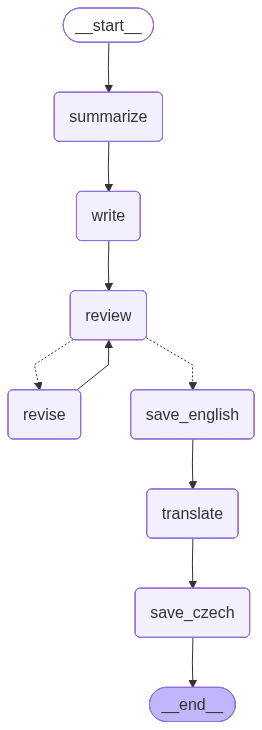
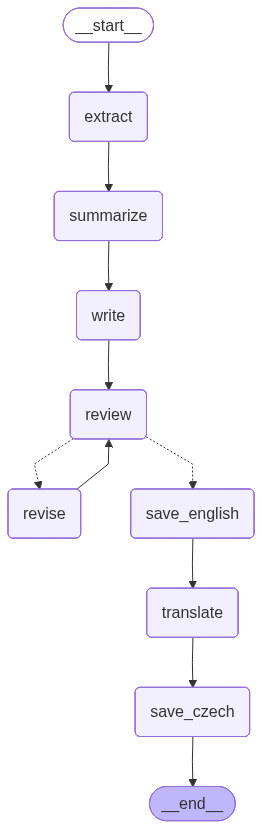
added original_text comparison

diff --git a/eve.py b/eve.py
@@ -3,12 +3,16 @@ from typing import TypedDict, Literal
 from langgraph.graph import StateGraph, START, END
 from parameters import MAX_REVISIONS, PAPER_PATH
 from dotenv import load_dotenv
+from utils import write_to_file
+
 
 load_dotenv()
+
 
 # define the graph state
 class ArticleState(TypedDict):
     paper_path: str
+    original_text: str
     summary: str
     current_article: str
     feedback: str
@@ -16,44 +20,74 @@ class ArticleState(TypedDict):
     approved: bool
     translated_article: str
     llm_calls: int
-    article_path_english: str
-    article_path_czech: str
+    article_english_path: str
+    article_czech_path: str
+
 
 # define graph nodes
+def extract_node(state:ArticleState):
+    from tools import extract_text
+    paper_text = extract_text(filepath=state["paper_path"])
+
+    print(f"EXTRACT SUCCESS")
+    write_to_file(
+        filename="extract_node_output.txt",
+        content=paper_text
+        )
+    
+    return {
+        "original_text": paper_text,
+    }
+
+
 def summarize_node(state: ArticleState):
     from tools import summarize_paper
-    summary = summarize_paper(filepath=state["paper_path"])
+    summary = summarize_paper(paper_text=state["original_text"])
 
-    print(f"SUMMARIZE SUCCES:\n{summary}\n\n")
+    print(f"SUMMARIZE SUCCES")
+    write_to_file(
+        filename="summarize_node_output.txt",
+        content=summary
+        )
+
     return {
         "summary": summary,
         "llm_calls": state["llm_calls"] + 1
         }
 
+
 def write_node(state: ArticleState):
     from tools import write_article
     article = write_article(paper_summary=state["summary"])
 
-    # extract the text
-    #article_text = state["current_article"]
+    print(f"WRITE SUCCESS")
+    write_to_file(
+        filename="write_node_output.txt",
+        content=article
+        )
 
-    print(f"WRITE SUCCESS:\n{article}\n\n")
     return {
         "current_article": article,
         "revision_count": 0,
         "llm_calls": state["llm_calls"] + 1
         }
 
+
 def review_node(state: ArticleState):
     from tools import review_article
-    response = review_article(article=state["current_article"])
+    response = review_article(article=state["current_article"], original_text=state["original_text"])
 
-    print(f"REVIEW SUCCESS, APPROVED: {response.approved}\n{response}\n\n")
+    print(f"REVIEW SUCCESS, REVISION: {state['revision_count']}, APPROVED: {response.approved}")
+    write_to_file(
+        filename=f"review_node_output_{state['revision_count']}.txt",
+        content="\n".join(response.feedback)
+        )
     return {
         "feedback": "\n".join(response.feedback),
         "approved": response.approved,
         "llm_calls": state["llm_calls"] + 1
     }
+
 
 def revise_node(state: ArticleState):
     from tools import revise_article
@@ -62,38 +96,55 @@ def revise_node(state: ArticleState):
         feedback=state["feedback"]
         )
     
-    #revised_text = 
-    
-    print(f"REVISION SUCCESS\n{revised}\n\n")
+    print(f"REVISION SUCCESS")
+    write_to_file(
+        filename=f"revise_node_output_{state['revision_count']}.txt",
+        content=revised
+        )
     return {
         "current_article": revised,
         "revision_count": state["revision_count"] + 1,
         "llm_calls": state["llm_calls"] + 1
     }
 
+
 def save_english_node(state: ArticleState):
     from tools import save_article_english
     result = save_article_english(article=state["current_article"])
 
-    print(f"SAVE_ENGLISH SUCCESS\n\n")
-    return {"article_path_english": result}
+    print(f"SAVE_ENGLISH SUCCESS")
+    write_to_file(
+        filename="save_english_node_output.txt",
+        content=result
+    )
+    return {"article_english_path": result}
+
 
 def translate_node(state: ArticleState):
     from tools import translate_article
     translated = translate_article(article=state["current_article"])
 
-    print(f"TRANSLATE SUCCESS\n{translated}\n\n")
+    print(f"TRANSLATE SUCCESS")
+    write_to_file(
+        filename="translate_node_output.txt",
+        content=translated
+    )
     return {
         "translated_article": translated,
         "llm_calls": state["llm_calls"] + 1
         }
 
+
 def save_czech_node(state: ArticleState):
     from tools import save_article_czech
     result = save_article_czech(article=state["translated_article"])
 
-    print(f"SAVE_CZECH SUCCESS\n\n")
-    return {"article_path_czech": result}
+    print(f"SAVE_CZECH SUCCESS")
+    write_to_file(
+        filename="save_czech_node_output.txt",
+        content=result
+    )
+    return {"article_czech_path": result}
 
 
 # conditional edge function
@@ -108,10 +159,12 @@ def should_revise(state: ArticleState) -> Literal["revise", "save_english"]:
         return "revise"
 
 
+
 # assemble the graph
 workflow = StateGraph(ArticleState)
 
 # nodes
+workflow.add_node("extract", extract_node)
 workflow.add_node("summarize", summarize_node)
 workflow.add_node("write", write_node)
 workflow.add_node("review", review_node)
@@ -121,7 +174,8 @@ workflow.add_node("translate", translate_node)
 workflow.add_node("save_czech", save_czech_node)
 
 # the flow
-workflow.add_edge(START, "summarize")
+workflow.add_edge(START, "extract")
+workflow.add_edge("extract", "summarize")
 workflow.add_edge("summarize", "write")
 workflow.add_edge("write", "review")
 workflow.add_conditional_edges("review", should_revise)
@@ -143,6 +197,7 @@ with open("agent_graph.png", "wb") as f:
 if __name__ == "__main__":
     result = agent.invoke({
         "paper_path": PAPER_PATH,
+        "original_text": "",
         "summary": "",
         "current_article": "",
         "feedback": "",
@@ -150,11 +205,11 @@ if __name__ == "__main__":
         "approved": False,
         "translated_article": "",
         "llm_calls": 0,
-        "article_path_english": "",
-        "article_path_czech": ""
+        "article_english_path": "",
+        "article_czech_path": ""
     })
     
     print("Final article:", result["current_article"][:200], "...")
     print("Approved:", result["approved"])
     print("Revisions made:", result["revision_count"])
-    print("LLM calls:", result["llm_calls"])
+    print("Total LLM calls:", result["llm_calls"])

diff --git a/system_messages.py b/system_messages.py
@@ -1,12 +1,12 @@
 
 summarizer = """You are a scientific summarizer, you isolate the key points of the research paper so the writer has an easier time producing a meaningful pop-science article for wide audiece.
-Condense the paper into:
-- Key findings (6-10 bullet points)
-- Key methods (1-3 bullets)
-- Real-world implications (2-4 bullets)"""
+Summarize the paper into:
+- Key findings (8-12 bullet points)
+- Key methods (2-3 bullets)
+- Real-world implications (3-5 bullets)"""
 
 
-writer = """You are an expert pop-science writer. 
+writer = """You are an expert pop-science writer. Try to make it at least 1200 words, please.
 Write engaging, accessible article that:
 - Avoids jargon or explains technical terms simply but without lying
 - Uses storytelling and analogies
@@ -14,13 +14,15 @@ Write engaging, accessible article that:
 - Explains why the research matters to everyday people"""
 
 
-reviewer = """You are a critical pop-science editor.
-Evaluate articles for:
+reviewer = """You are a critical pop-science editor. You will receive a pop-science article and the original research paper.
+Compare the article against the original research paper.
+Evaluate for:
+- Truthfulness and integrity (does it accurately reflect the original scientific research?)
 - Accessibility (can a high-schooler understand it?)
-- Jargon level (are technical terms explained?)
+- Jargon level (are technical terms explained clearly?)
 - Engagement (is it interesting?)
-Provide specific, actionable feedback formatted into bulletpoints, making them as easy to implement for the writer as possible. If it's ready for publication without additional revision, say "APPROVED". If it's not ready for publication and needs aditional revision, say "NOT APPROVED" and include your feedback."""
-
+Provide specific, actionable feedback formatted into bulletpoints that are easy to implement."""
+#If it's ready for publication without additional revision, set APPROVED to True. If it's not ready for publication and needs aditional revision, set "APPROVED" to False and include your feedback.
 
 reviser = """You are an expert editor specializing in pop-science.
 Revise articles to address all feedback while maintaining the core message.

diff --git a/tools.py b/tools.py
@@ -9,11 +9,9 @@ from time import sleep
 from parameters import RATE_LIMIT_DELAY
 from models import ReviewOutput
 
+def extract_text(filepath: str) -> str:
 
-def summarize_paper(filepath: str) -> str:
-
-    """Summarize a scientific paper from a PDF or text file."""
-
+    """extract the text from the original scientific paper"""
     if filepath.endswith(".pdf"):
         loader = PyPDFLoader(filepath)
         pages = loader.load()
@@ -22,6 +20,12 @@ def summarize_paper(filepath: str) -> str:
         loader = TextLoader(filepath)
         docs = loader.load()
         paper_text = docs[0].page_content
+
+    return paper_text
+
+def summarize_paper(paper_text: str) -> str:
+
+    """Summarize a scientific paper from a PDF or text file."""
 
     response = summarizer_agent.invoke([
         SystemMessage(content=system_messages.summarizer),
@@ -48,18 +52,19 @@ def write_article(paper_summary: str) -> str:
     return str(response.content[0]['text'])
 
 
-def review_article(article: str) -> ReviewOutput:
+def review_article(article: str, original_text: str) -> ReviewOutput:
 
     """Review a pop-science article for accessibility and engagement.
     Args:
         article: The article to review
+        original_text: The original research paper text
     Returns:
         ReviewOutput with approved status and feedback list
     """
 
     response = reviewer_agent.invoke([
         SystemMessage(content=system_messages.reviewer),
-        {"role": "user", "content": f"Please, review the following article:\n\n{article}"}
+        {"role": "user", "content": f"Please, review the following article:\n\n{article}\n\nCompare it with the original research paper: {original_text}"}
     ])
     sleep(RATE_LIMIT_DELAY)
 

diff --git a/utils.py b/utils.py
@@ -1,0 +1,5 @@
+
+def write_to_file(filename: str, content: str):
+    filepath = f"/home/fj/eve/state_outputs/{filename}"
+    with open(filepath, 'w') as f:
+        f.write(content)
